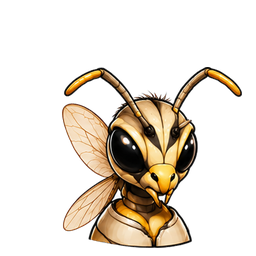
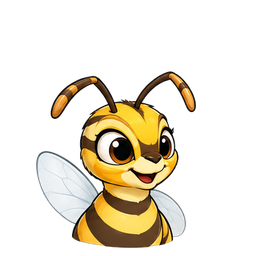
Wasps regenerated (pilot P1): larger markers, black vs. yellow rows

diff --git a/scripts/extract-animals.py b/scripts/extract-animals.py
@@ -77,8 +77,9 @@ for _id in ["had", "jezevcici", "clovek", "kocky", "kravky", "mravenci", "mysky"
     SOURCES[_id] = {"light": (f"{_id}.png", "bottom"), "dark": (f"{_id}.png", "top")}
 
 # Sheets without the Czech piece labels between the rows (the layout is the same: dark row
-# on top, light row below, P R N B Q K left to right — see docs/vlastni-sada.md).
-UNLABELLED_SHEETS = {"veverky.png"}
+# on top, light row below, P R N B Q K left to right — see docs/vlastni-sada.md). The
+# wasps were regenerated 2026-09-14 after the pilot found the old ones hard to read.
+UNLABELLED_SHEETS = {"veverky.png", "vosy.png"}
 
 # Verdict overrides: (character, side, role, pocket index) -> True = clear, False = keep.
 # Filled in from the DoD review of the printed verdicts / debug overlays.
